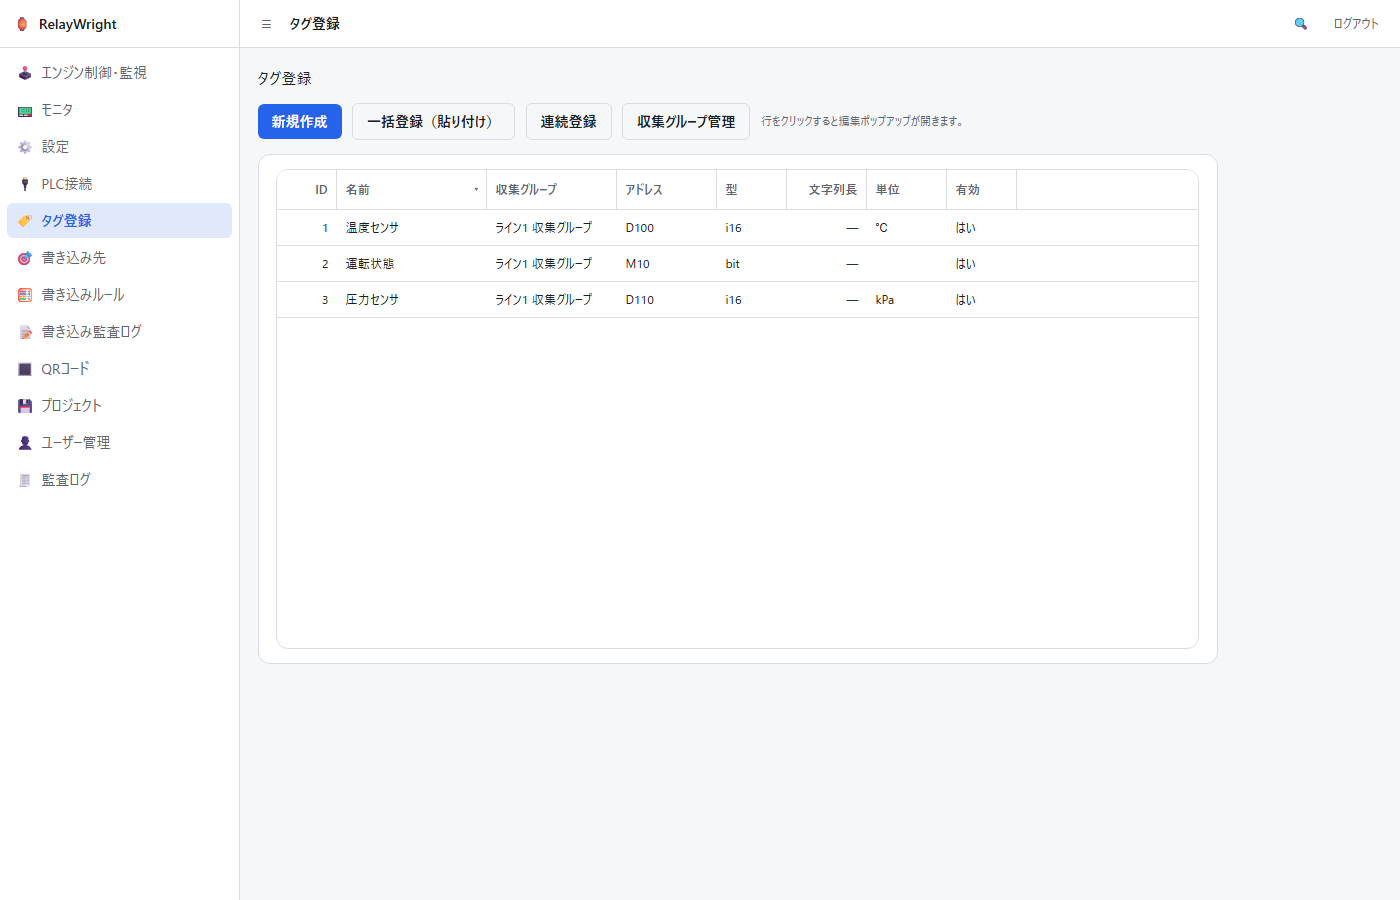
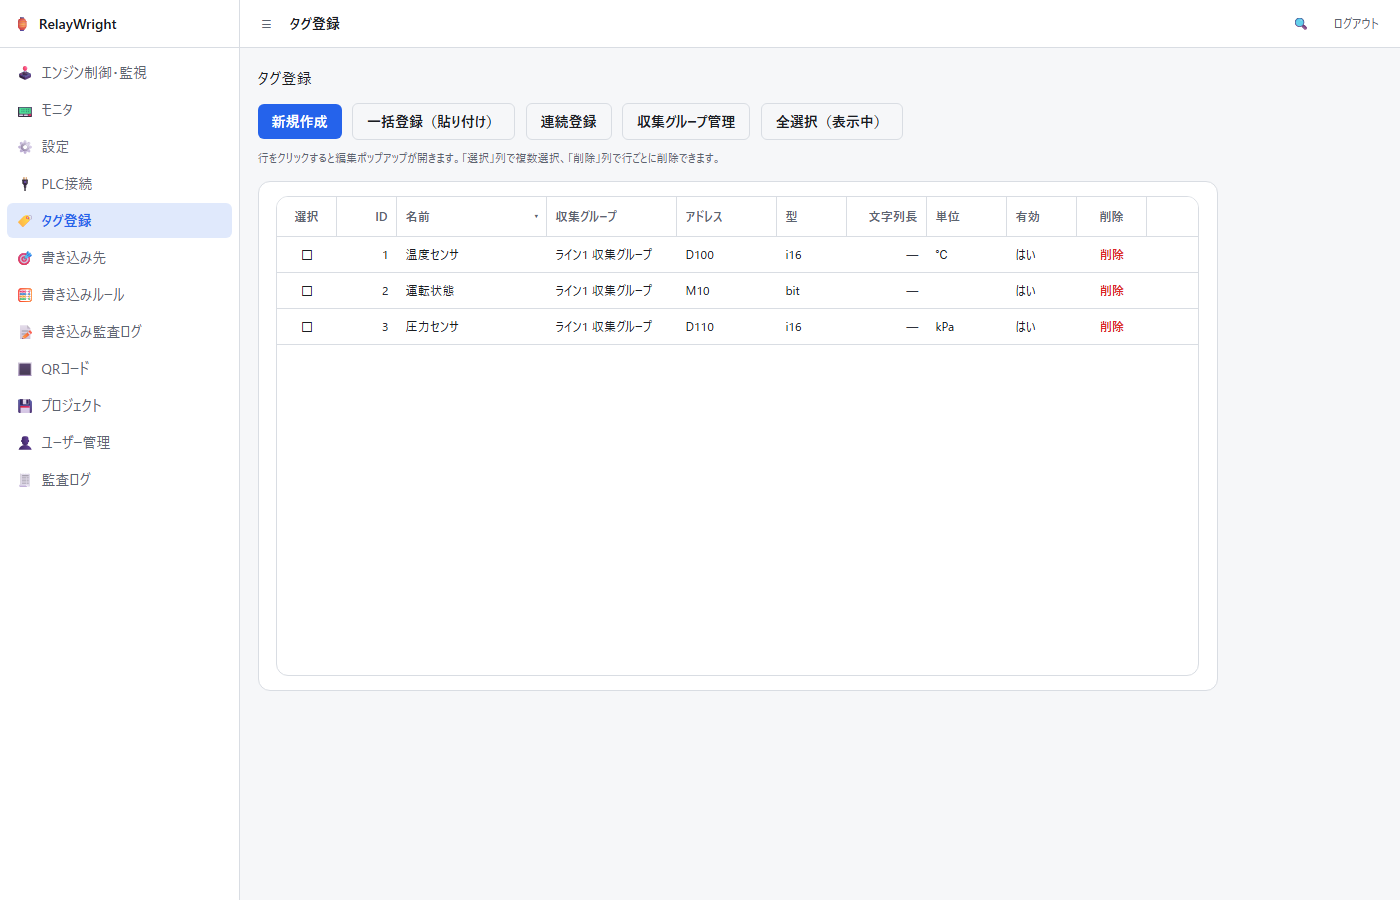
docs(relay-wright): カスケード削除・行削除・選択削除を取扱説明書に反映
§4.3 PLC接続: 削除がカスケード（収集グループ・タグ巻き添え）である旨、
行の「削除」列、書き込み先/ルールへの影響（削除されず参照が外れる）、
エンジン再構築までの挙動を記載。§4.4 タグ登録: 行ごとの削除・
「選択」列による複数選択と「選択削除（N件）」・「全選択（表示中）」、
収集グループ管理のカスケード削除を記載。UI が変わった
plc-connections.png / tags.png を再撮影（他の画像は据え置き）。

diff --git a/apps/relay-wright/docs/manual.md b/apps/relay-wright/docs/manual.md
@@ -178,9 +178,18 @@ Windows 用インストーラ（NSIS 形式 `RelayWright_<version>_x64-setup.exe
   Modbus TCP は共有レジストリ（他アプリ用）として登録できますが、
   本アプリのエンジンからは使用されません。
 - 一覧の行をクリックすると下に編集パネルが開き、保存・削除ができます。
-- 収集グループが参照している接続は削除できません（「…収集グループが
-  N 件あるため削除できません」というエラーが表示されます）。先に
-  参照元の収集グループを削除・付け替えしてください。
+  一覧の右端の「削除」列からも 1 クリックで削除できます。
+- **削除はカスケード削除**です。接続を削除すると、その接続に属する
+  収集グループとタグも**一緒に削除**されます。確認ダイアログに巻き添えの
+  件数（「収集グループ N 件・タグ M 件も削除されます」）が表示されるので、
+  内容を確認してから OK してください。削除後はトーストにも削除件数が
+  表示されます。
+- この接続を参照している**書き込み先（および関連ルール）は削除されません**
+  が、参照先を失って無効になります（件数が確認ダイアログに表示されます）。
+  別の接続に付け替えるか、不要なら書き込み先画面から削除してください。
+- カスケード削除は登録（レジストリ）を消すだけで、**稼働中のエンジンが
+  コンパイル済みのルールには再構築まで影響しません**。削除後はエンジン
+  制御画面の「リロード（再構築）」で反映してください。
 
 ### 4.4 タグ登録
 
@@ -196,6 +205,14 @@ Windows 用インストーラ（NSIS 形式 `RelayWright_<version>_x64-setup.exe
   (string)）・単位・小数桁などを入力します。
 - **編集**: 一覧の行をクリックすると同じポップアップが既存値入りで
   開き、保存・削除ができます。ポップアップは Esc キーでも閉じられます。
+- **行ごとの削除**: 一覧の右端の「削除」列をクリックすると、確認 1 回で
+  そのタグを削除できます（ポップアップを開く必要はありません）。
+- **選択削除（複数まとめて削除）**: 一覧の左端の「選択」列（☐/☑）を
+  クリックしてタグを複数選択すると、ツールバーに「選択削除（N件）」
+  ボタンが現れます。確認 1 回で選択した全タグを削除します（1 件ずつ
+  監査ログに記録され、途中の行が失敗しても残りは続行して「成功N件・
+  失敗M件」で通知されます）。ツールバーの「全選択（表示中）」で、
+  現在の絞り込み・並び替え結果の全行をまとめて選択／解除できます。
 - **アドレス**は SLMP 記法で入力します（例: `D100` / `M10` / `X1A`）。
 - **文字列 (string) タグ**: データ型に「文字列(string)」を選ぶと、
   **文字列長（1〜128 ワード）** の入力欄が現れます（1 ワード = 2 バイト、
@@ -213,8 +230,10 @@ Windows 用インストーラ（NSIS 形式 `RelayWright_<version>_x64-setup.exe
   プルダウンで選択し、収集周期は 100ms〜1min の固定候補から選びます。
   **収集周期（period）は共有レジストリ上のメタデータ（他の収集アプリが
   使用）で、本アプリのエンジンは自前の固定間隔でポーリングするため、
-  ここでは参考情報です。** タグが所属しているグループは削除できません
-  （件数入りのエラーが表示されます）。
+  ここでは参考情報です。** グループの削除は**カスケード削除**で、所属
+  タグも一緒に削除されます（確認ダイアログに「所属タグ M 件も削除
+  されます」と件数が表示されます。削除されるタグを参照している書き込み
+  ルールがあれば、その件数も警告されます — ルール自体は削除されません）。
 
 #### 一括登録（貼り付け）
 
